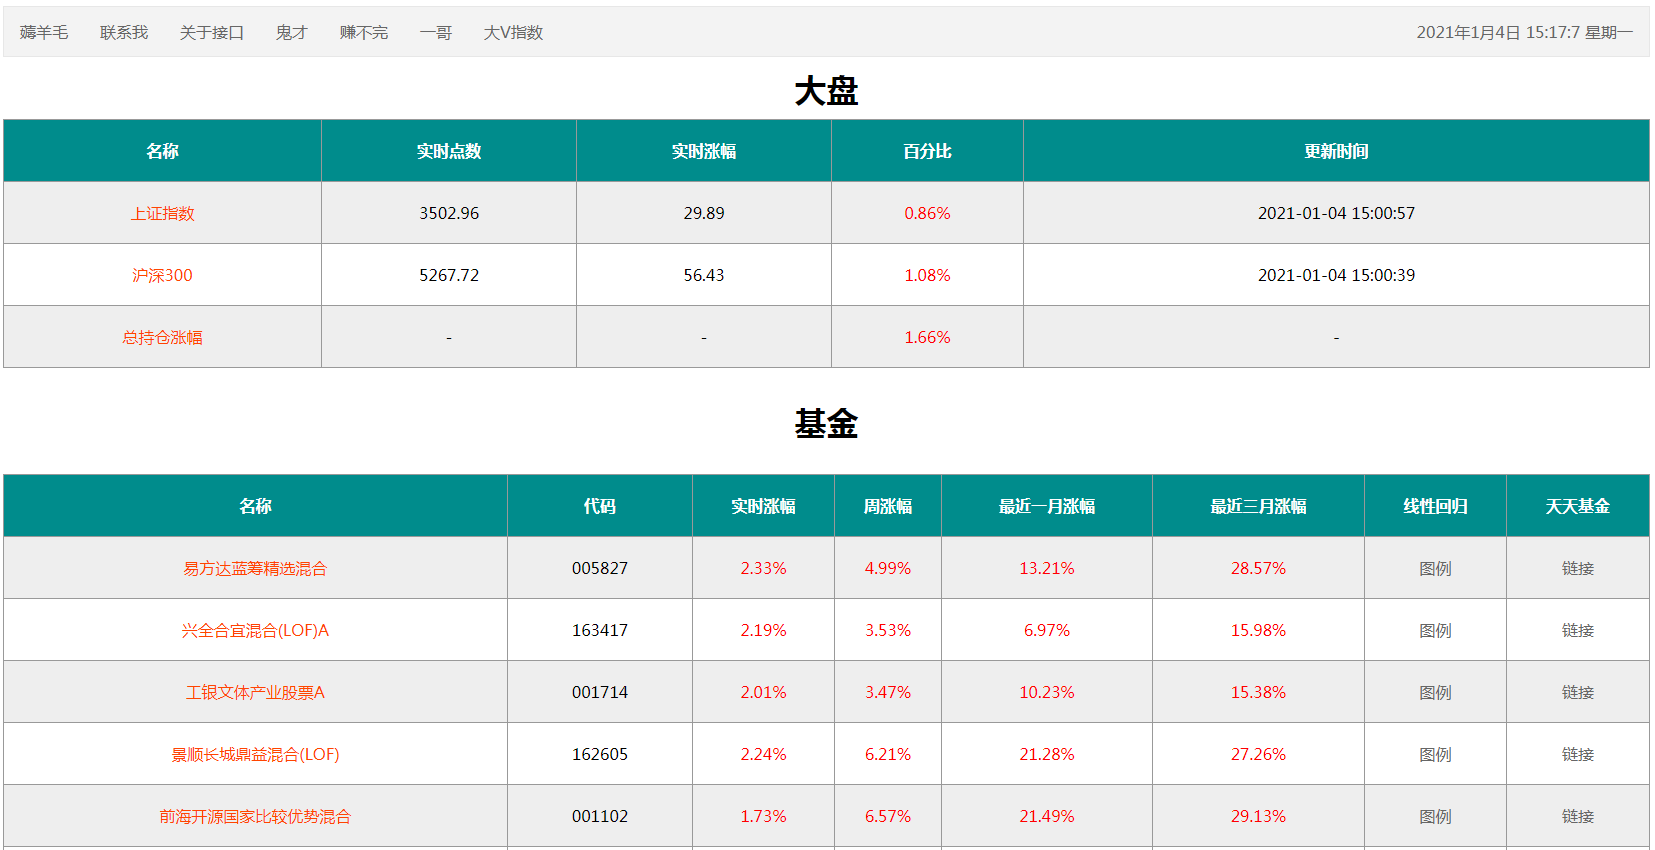
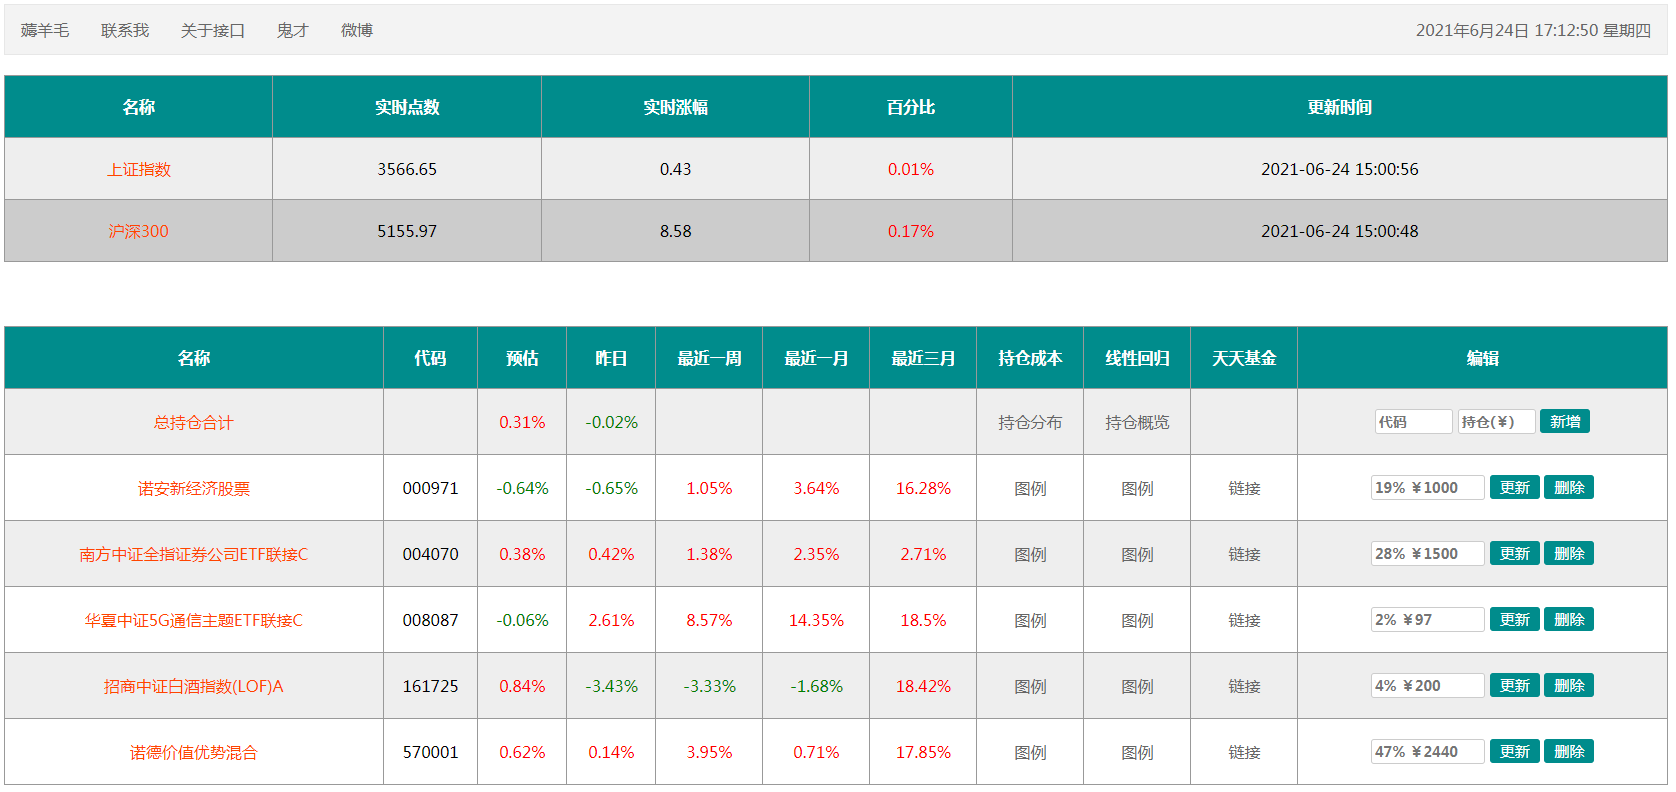
更新REDEME

diff --git a/README.md b/README.md
@@ -18,7 +18,7 @@ ps:初始化比较麻烦，我也暂时没优化，后面再说吧
 * 单支基金实时、近一周、近一月、近三月的涨跌情况
 * 总持仓实际涨幅、预估涨幅
 * 持仓成本图、饼状图、收益详情图（需修改new.csv)
-* 持仓百分占比
+* 在线新增、查看、修改基金持仓及百分占比
 * 线性回归图例
 * 外链天天基金页面
 * 外链头条大V号（已关闭）
